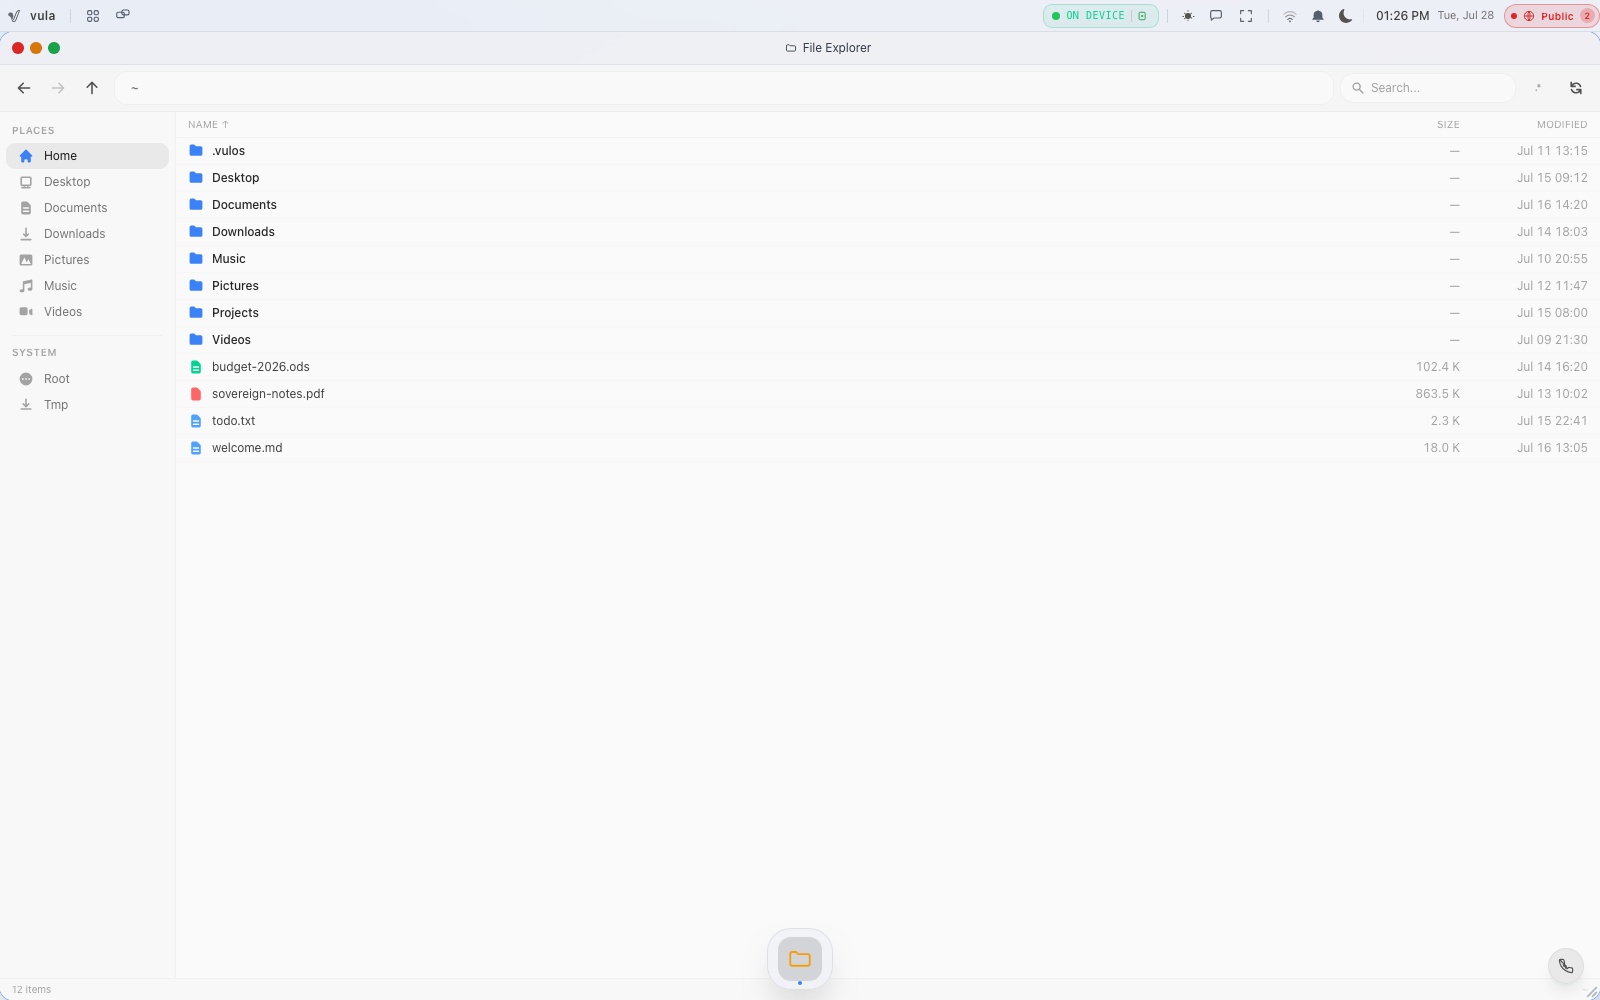
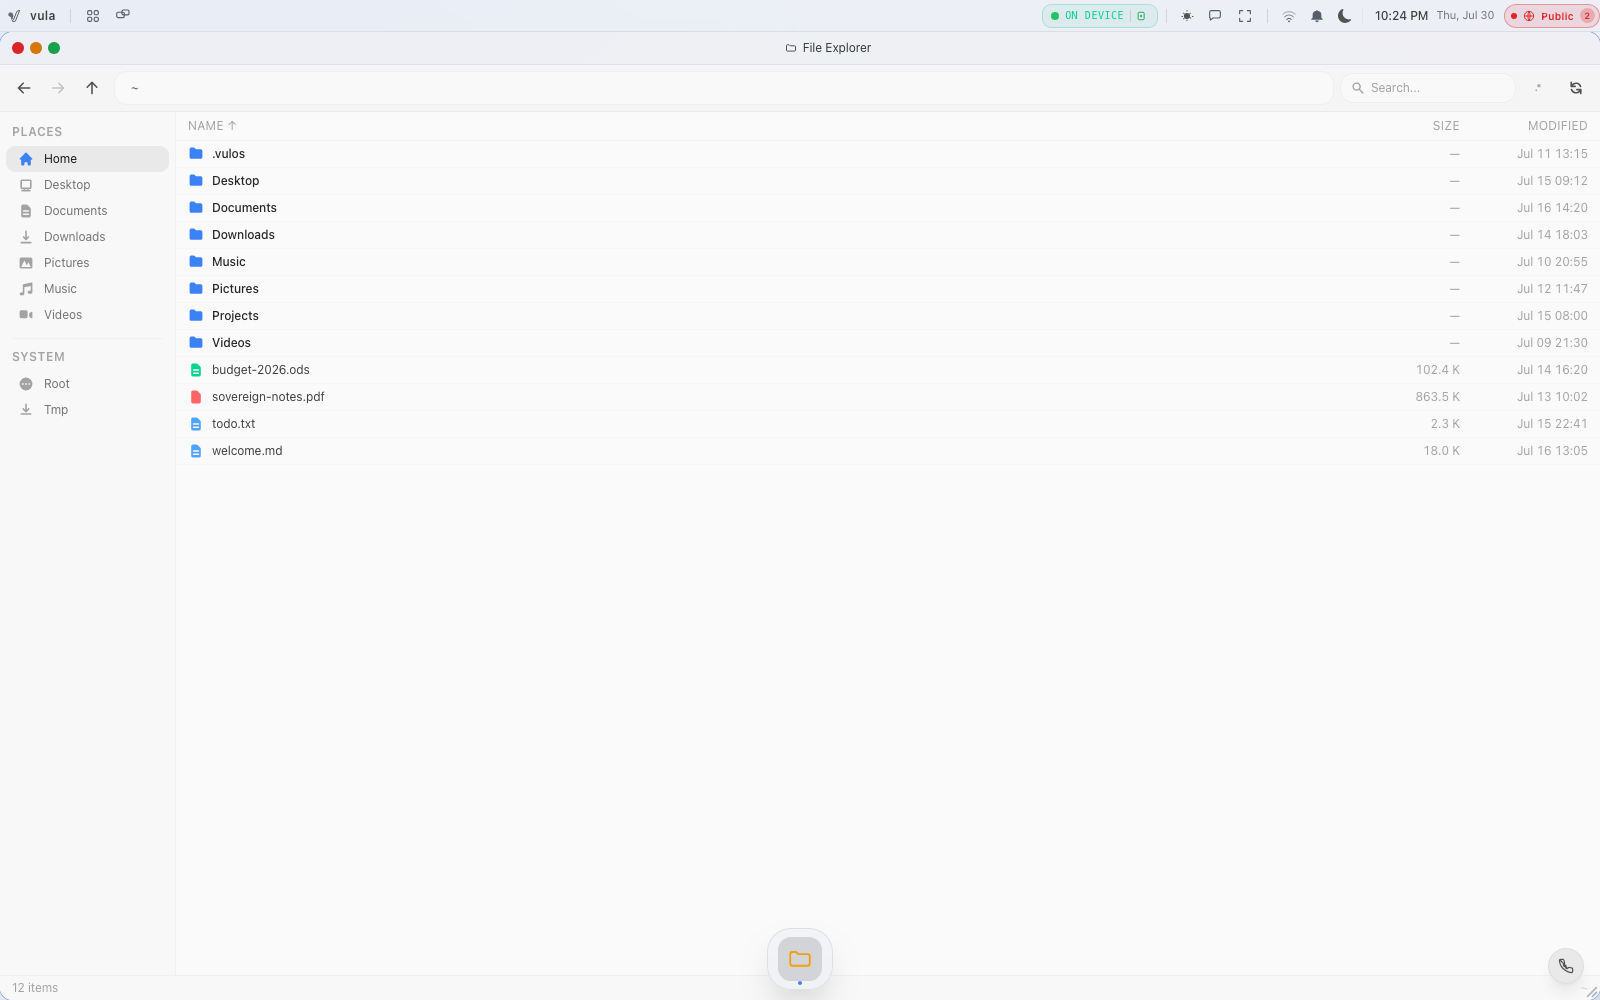
site: raise sub-12px labels to a 12px floor in FileManager
Second of the core-shell's four surfaces (Settings done in the prior
commit). Raised 26 Tailwind text-[Npx] arbitrary values below 12px across
FileManager.jsx and its SharePeerModal.jsx companion: column headers, the
preview pane's permissions/owner/size key-value rows, symlink targets, the
search-match percentage pill, and peer-share labels.

One instance was deliberately left alone: FileManager.jsx's hidden-files
toggle button renders the literal glyph ".*" at text-[10px] inside a fixed
w-8 h-8 icon button (title="Show hidden files") — a symbolic icon standing
in for a picture, not a word to read, same category as the disclosure
triangle this pass leaves untouched elsewhere. Confirmed by screenshot that
it renders identically before/after.

Verified visually: captured the harness's own `files`/`files-light` shots
before/after, plus three temporary scratch shots (not committed) driving the
preview pane, the hidden-files toggle, and the search box via a local-only
copy of scripts/screenshots.mjs. All five compared cleanly — no clipping,
no truncated columns, no misaligned rows, and the excluded glyph is
pixel-identical.

471/471 vitest, 60/61 Playwright (1 pre-existing skip), vite build clean.

Agent-generated, machine-verified, NOT human-reviewed.

diff --git a/src/builtin/files/FileManager.jsx b/src/builtin/files/FileManager.jsx
@@ -621,7 +621,7 @@ export default function FileManager() {
         <div className="hidden sm:flex w-44 shrink-0 border-r border-neutral-800/40 bg-neutral-900/50 overflow-y-auto overflow-x-hidden py-3 flex-col gap-1">
           {/* Places */}
           <div className="flex flex-col">
-            <div className="text-[10px] font-semibold text-neutral-600 uppercase tracking-wider px-3 pb-1.5">
+            <div className="text-[12px] font-semibold text-neutral-600 uppercase tracking-wider px-3 pb-1.5">
               Places
             </div>
             {SIDEBAR_PLACES.map(place => (
@@ -643,7 +643,7 @@ export default function FileManager() {
 
           {/* System */}
           <div className="flex flex-col">
-            <div className="text-[10px] font-semibold text-neutral-600 uppercase tracking-wider px-3 pb-1.5">
+            <div className="text-[12px] font-semibold text-neutral-600 uppercase tracking-wider px-3 pb-1.5">
               System
             </div>
             {SIDEBAR_SYSTEM.map(place => (
@@ -665,7 +665,7 @@ export default function FileManager() {
         {/* Main content area */}
         <div className="flex-1 flex flex-col min-w-0 overflow-hidden">
           {/* Column headers */}
-          <div className="flex items-center px-3 py-1.5 border-b border-neutral-800/40 text-[10px] text-neutral-600 uppercase tracking-wide shrink-0 select-none bg-neutral-950/50">
+          <div className="flex items-center px-3 py-1.5 border-b border-neutral-800/40 text-[12px] text-neutral-600 uppercase tracking-wide shrink-0 select-none bg-neutral-950/50">
             <span className="flex-1 flex items-center gap-1.5 min-w-0 cursor-pointer hover:text-neutral-400 transition-colors" onClick={() => toggleSort('name')}>
               Name{sortArrow('name')}
             </span>
@@ -710,12 +710,12 @@ export default function FileManager() {
                       <span className="flex-1 flex items-center gap-2 min-w-0 overflow-hidden">
                         <IconCode className="accent-text shrink-0" />
                         <span className="truncate">{name}</span>
-                        <span className="accent-bg-soft accent-text text-[9px] px-1.5 py-0.5 rounded-full ml-1 shrink-0">
+                        <span className="accent-bg-soft accent-text text-[12px] px-1.5 py-0.5 rounded-full ml-1 shrink-0">
                           {Math.round((r.score || 0) * 100)}%
                         </span>
                       </span>
                       <span className="w-16 shrink-0 text-right text-neutral-700">{'\u2014'}</span>
-                      <span className="w-32 shrink-0 text-right text-neutral-700 truncate text-[10px]">
+                      <span className="w-32 shrink-0 text-right text-neutral-700 truncate text-[12px]">
                         {p.split('/').slice(0, -1).join('/')}
                       </span>
                     </div>
@@ -738,7 +738,7 @@ export default function FileManager() {
                       <span className="truncate">{r.name}</span>
                     </span>
                     <span className="w-16 shrink-0 text-right text-neutral-700">{'\u2014'}</span>
-                    <span className="w-32 shrink-0 text-right text-neutral-700 truncate text-[10px]">
+                    <span className="w-32 shrink-0 text-right text-neutral-700 truncate text-[12px]">
                       {r.path}
                     </span>
                   </div>
@@ -765,7 +765,7 @@ export default function FileManager() {
                       {entry.name}
                     </span>
                     {entry.linkTarget && (
-                      <span className="text-neutral-600 text-[10px] ml-1 shrink-0 flex items-center gap-0.5">
+                      <span className="text-neutral-600 text-[12px] ml-1 shrink-0 flex items-center gap-0.5">
                         <IconChevronRight className="text-neutral-700" /> {entry.linkTarget}
                       </span>
                     )}
@@ -832,31 +832,31 @@ export default function FileManager() {
             {preview.entry && (
               <div className="px-3 py-2.5 border-b border-neutral-800/30 shrink-0 space-y-1">
                 {preview.entry.perms && (
-                  <div className="flex justify-between text-[11px]">
+                  <div className="flex justify-between text-[12px]">
                     <span className="text-neutral-600">Permissions</span>
-                    <span className="text-neutral-400 font-mono text-[10px]">{preview.entry.perms}</span>
+                    <span className="text-neutral-400 font-mono text-[12px]">{preview.entry.perms}</span>
                   </div>
                 )}
                 {preview.entry.owner && (
-                  <div className="flex justify-between text-[11px]">
+                  <div className="flex justify-between text-[12px]">
                     <span className="text-neutral-600">Owner</span>
                     <span className="text-neutral-400">{preview.entry.owner}:{preview.entry.group}</span>
                   </div>
                 )}
                 {preview.entry.size !== undefined && !preview.entry.isDir && (
-                  <div className="flex justify-between text-[11px]">
+                  <div className="flex justify-between text-[12px]">
                     <span className="text-neutral-600">Size</span>
                     <span className="text-neutral-400">{fmtSize(preview.entry.size)}</span>
                   </div>
                 )}
                 {preview.entry.modified && (
-                  <div className="flex justify-between text-[11px]">
+                  <div className="flex justify-between text-[12px]">
                     <span className="text-neutral-600">Modified</span>
                     <span className="text-neutral-400">{preview.entry.modified}</span>
                   </div>
                 )}
                 {preview.entry.linkTarget && (
-                  <div className="flex justify-between text-[11px]">
+                  <div className="flex justify-between text-[12px]">
                     <span className="text-neutral-600">Link</span>
                     <span className="text-neutral-400 truncate ml-2">{preview.entry.linkTarget}</span>
                   </div>
@@ -866,13 +866,13 @@ export default function FileManager() {
 
             {preview.type === 'semantic' && (
               <div className="px-3 py-2.5 border-b border-neutral-800/30 shrink-0 space-y-1">
-                <div className="flex justify-between text-[11px]">
+                <div className="flex justify-between text-[12px]">
                   <span className="text-neutral-600">Match</span>
                   <span className="accent-text">{Math.round((preview.score || 0) * 100)}%</span>
                 </div>
-                <div className="flex justify-between text-[11px]">
+                <div className="flex justify-between text-[12px]">
                   <span className="text-neutral-600">Path</span>
-                  <span className="text-neutral-500 text-[10px] truncate ml-2">{preview.path}</span>
+                  <span className="text-neutral-500 text-[12px] truncate ml-2">{preview.path}</span>
                 </div>
               </div>
             )}
@@ -895,7 +895,7 @@ export default function FileManager() {
                   <div className="text-neutral-600 text-xs truncate max-w-full">{preview.name}</div>
                 </div>
               ) : (
-                <pre className="m-0 p-3 text-[11px] leading-relaxed text-neutral-500 whitespace-pre-wrap break-all font-mono">
+                <pre className="m-0 p-3 text-[12px] leading-relaxed text-neutral-500 whitespace-pre-wrap break-all font-mono">
                   {preview.content}
                 </pre>
               )}
@@ -905,7 +905,7 @@ export default function FileManager() {
       </div>
 
       {/* Status bar */}
-      <div className="flex justify-between items-center px-3 py-1 bg-neutral-900/50 border-t border-neutral-800/40 text-[10px] text-neutral-600 shrink-0">
+      <div className="flex justify-between items-center px-3 py-1 bg-neutral-900/50 border-t border-neutral-800/40 text-[12px] text-neutral-600 shrink-0">
         <span>{entries.length} items</span>
         <span className="text-neutral-700 truncate ml-4">{cwd}</span>
       </div>
@@ -918,7 +918,7 @@ export default function FileManager() {
           onPointerDown={(e) => e.stopPropagation()}
         >
           <div className="bg-neutral-900/95 backdrop-blur-xl border border-neutral-700/60 rounded-lg py-1 min-w-[200px] shadow-2xl shadow-black/60">
-            <div className="px-3 py-1.5 text-[11px] text-neutral-600 truncate border-b border-neutral-700/40 mb-1">
+            <div className="px-3 py-1.5 text-[12px] text-neutral-600 truncate border-b border-neutral-700/40 mb-1">
               {ctxMenu.entry.name}
             </div>
             <button

diff --git a/src/builtin/files/SharePeerModal.jsx b/src/builtin/files/SharePeerModal.jsx
@@ -151,7 +151,7 @@ export default function SharePeerModal({ target, home, exec, onClose }) {
         <div className="flex items-center justify-between px-4 py-3 border-b border-neutral-800/60 shrink-0">
           <div className="min-w-0">
             <h2 className="text-sm font-semibold text-neutral-200">Share to peer</h2>
-            <p className="text-[11px] text-neutral-500 truncate mt-0.5">
+            <p className="text-[12px] text-neutral-500 truncate mt-0.5">
               {target.isDir ? 'Folder' : 'File'} · {target.name}
             </p>
           </div>
@@ -167,12 +167,12 @@ export default function SharePeerModal({ target, home, exec, onClose }) {
         {/* Body */}
         <div className="flex-1 overflow-y-auto p-4 space-y-2">
           <div className="flex items-center justify-between">
-            <h3 className="text-[11px] font-medium text-neutral-400 uppercase tracking-wider">
+            <h3 className="text-[12px] font-medium text-neutral-400 uppercase tracking-wider">
               Nearby peers
             </h3>
             <button
               onClick={loadPeers}
-              className="px-2 py-1 -mr-2 text-[11px] text-neutral-500 hover:text-neutral-300 transition-colors"
+              className="px-2 py-1 -mr-2 text-[12px] text-neutral-500 hover:text-neutral-300 transition-colors"
             >
               Refresh
             </button>
@@ -220,10 +220,10 @@ export default function SharePeerModal({ target, home, exec, onClose }) {
                           {peer.display_name || 'Unknown'}
                         </span>
                         {fail
-                          ? <span className="block text-[11px] text-danger truncate">{fail}</span>
+                          ? <span className="block text-[12px] text-danger truncate">{fail}</span>
                           : peer.is_contact
-                            ? <span className="block text-[10px] accent-text">Contact</span>
-                            : <span className="block text-[10px] text-neutral-600 truncate">{peer.vula_id}</span>}
+                            ? <span className="block text-[12px] accent-text">Contact</span>
+                            : <span className="block text-[12px] text-neutral-600 truncate">{peer.vula_id}</span>}
                       </span>
                       <span className="shrink-0 flex items-center justify-center w-8 h-8 rounded-lg accent-text">
                         {isSending
@@ -242,7 +242,7 @@ export default function SharePeerModal({ target, home, exec, onClose }) {
 
         {/* Footer note */}
         <div className="px-4 py-2.5 border-t border-neutral-800/60 shrink-0">
-          <p className="text-[11px] text-neutral-600 leading-relaxed">
+          <p className="text-[12px] text-neutral-600 leading-relaxed">
             End-to-end over your peering transport. The recipient must accept;
             the file then lands in their Downloads.
           </p>
